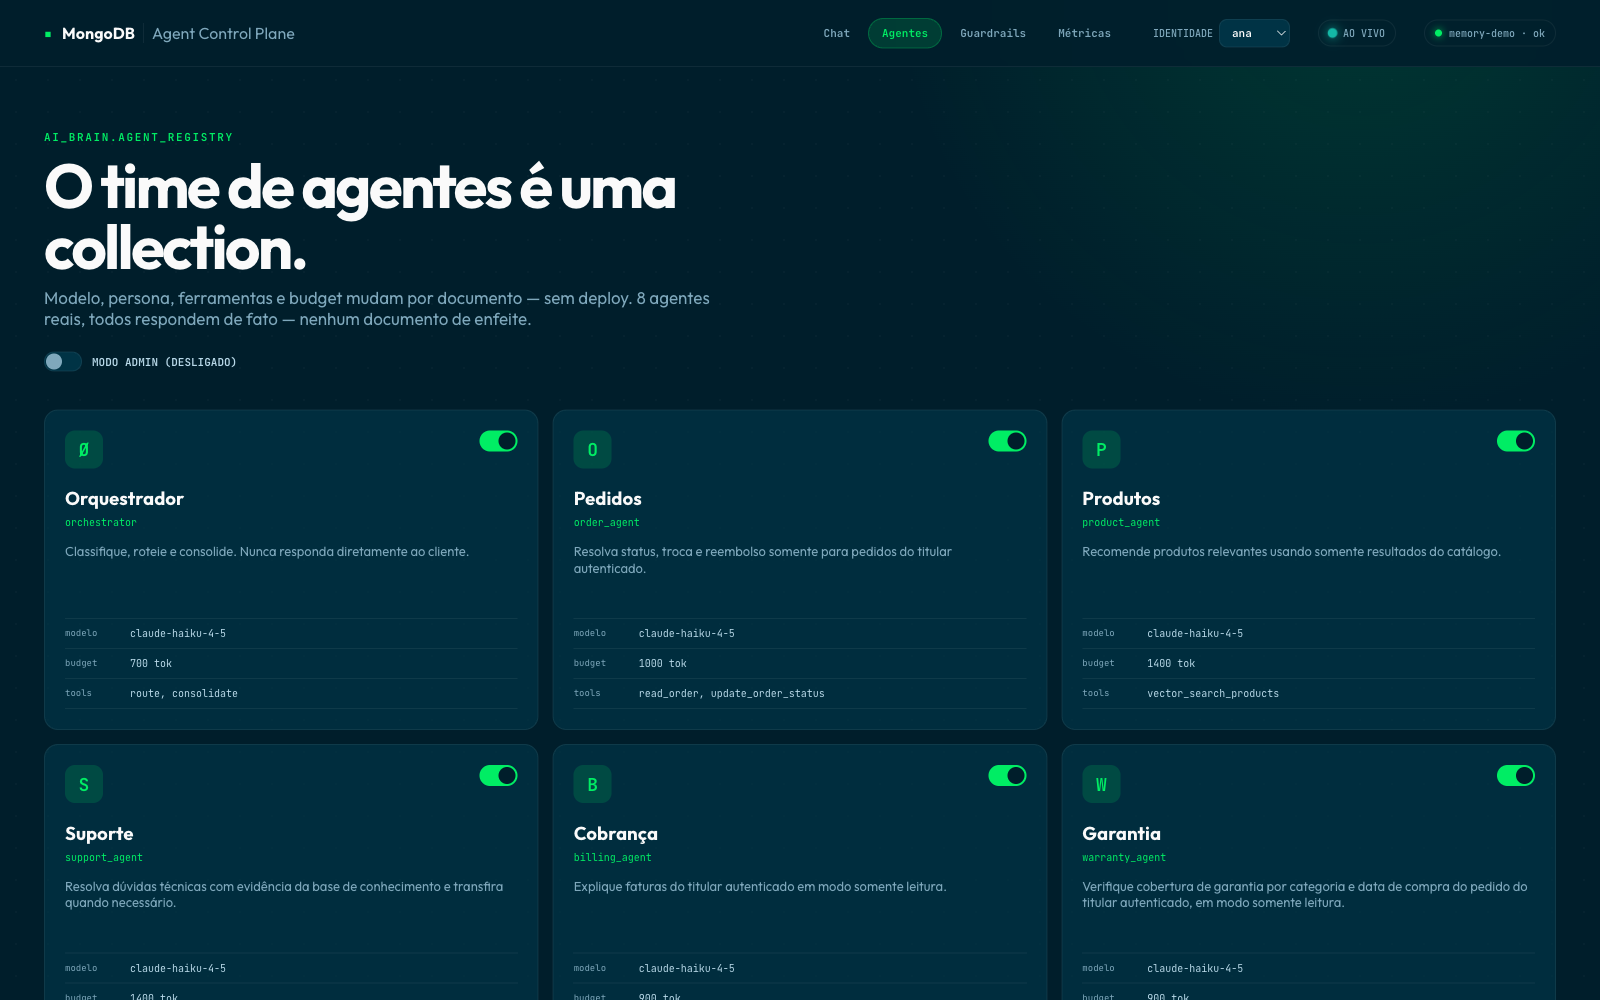
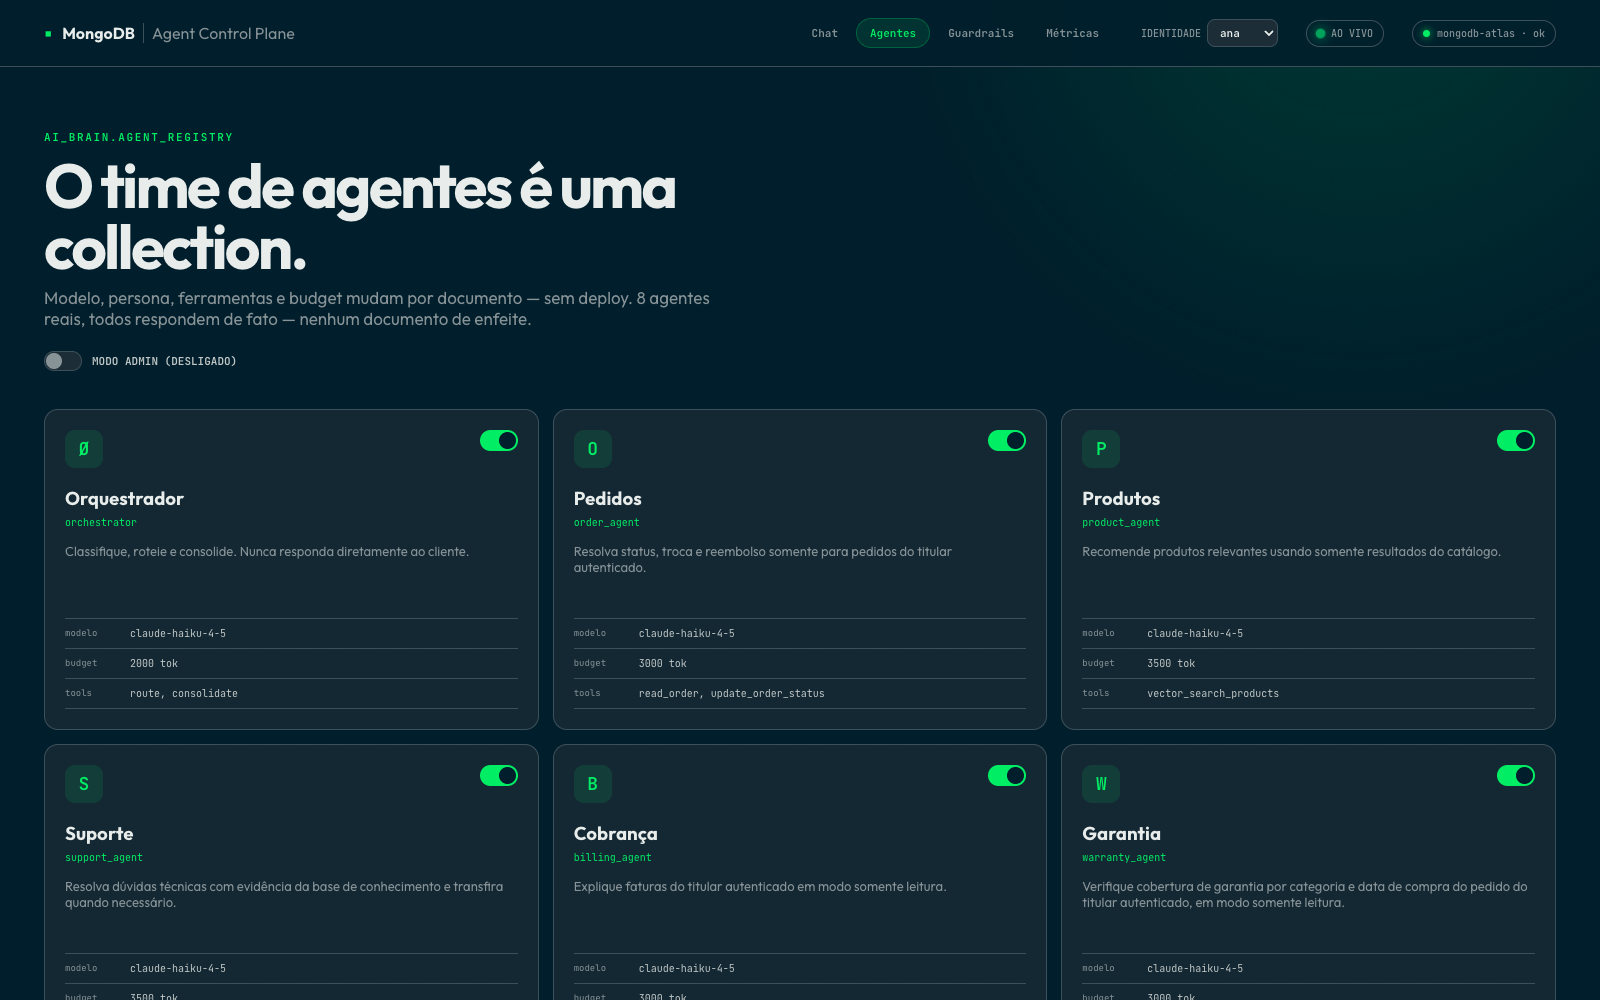
docs: simplify README and refresh screenshots
Rewrite the README as a short step-by-step walkthrough of the demo and
recapture the screenshots against the live cluster so each one shows the
step it illustrates.

diff --git a/README.md b/README.md
@@ -1,135 +1,73 @@
 # Multi-Agent on MongoDB
 
-This PoV answers a question that comes up in almost every multi-agent conversation: "fine, but where does all of this actually *live*?" Most reference architectures answer that with a shopping list — a database for durable state, Redis for session cache, a vector store bolted on the side, maybe a queue to coordinate handoffs. That's four systems to keep in sync before you've written a single line of business logic.
+8 customer-service agents that coordinate through MongoDB Atlas — no queue, no Redis, no separate vector store. Routing rules, agent configs, memory, cache, handoffs and guardrail decisions are all documents you can query while the conversation is running.
 
-This PoV takes the opposite bet: **MongoDB Atlas is not just where the data lives — it's where the agents coordinate.** Routing rules, agent configuration, conversation memory, handoff history, semantic cache, guardrail decisions, audit traces, vector and hybrid search all live in MongoDB, as documents, queryable the same way you'd query an order or an invoice.
+## The demo in 5 steps
 
-The screenshot below is the moment that usually lands the pitch: a support agent hands off to a product agent, which hands off to the order agent, which hands off to logistics, and the order agent gets called back at the end to confirm the trade actually stuck. Five agents, one customer message, every handoff a document you can query while it's happening.
+**1. Customer sends one message.**
 
-![Cadeia completa de agentes com retorno controlado](docs/screenshots/03-chain-timeline.png)
+![Chat home with the demo prompts](docs/screenshots/01-chat-home.png)
 
-## What this actually demonstrates
+**2. It walks through 4 agents in a single turn.** Support diagnoses the defect → product recommends a cheaper item → order processes the trade (the only write) → billing explains the invoice impact. Every hop is a document in `agent_handoffs`, streamed live via Change Streams.
 
-- **Agents are documents, not deployments.** Each agent's model, persona, tools, and token budget live in `ai_brain.agent_registry`. Disabling an agent, changing its model, or rewriting its persona is a MongoDB update — no redeploy, no restart.
-- **Coordination is auditable by design.** Every handoff between agents is written to `agent_handoffs` the moment it happens. A live Change Stream tails that collection and pushes it to the UI in real time.
-- **Multi-agent chains, not just single handoffs.** A single customer message can genuinely walk through 4 agents in one turn — diagnose (support) → recommend (product) → process the trade (order, the only agent with write access) → check the invoice impact (billing) — each one strictly scoped to its own part of the question.
-- **Parallel fan-out, when it makes sense.** A compound question like "where's my order, and how much do I still owe?" dispatches two independent agents at once instead of chaining them — genuine parallelism where the work doesn't depend on itself.
-- **Retrieval is hybrid and native.** Product recommendations use `$vectorSearch` with automatic embedding (`voyage-4`); support articles use BM25 + vector search fused with Reciprocal Rank Fusion — both running as MongoDB aggregation pipelines, not a bolted-on search service.
-- **Security is ownership-first.** `customer_key` comes only from the JWT, never from the request body. Every order/invoice/shipment query is rebuilt from scratch server-side. Only one agent can write, and only to one field, from an approved list of values.
-- **A guardrail that gets smarter as it runs.** New manipulation attempts caught by an LLM classifier get written back into the fast deterministic denylist — the next similar attempt is blocked instantly, no LLM call needed. Ambiguous cases get flagged for human review instead of blocking a legitimate customer by mistake.
-- **A cache cascade with explicit trust boundaries.** Short-term memory is scoped by session + customer + agent; cross-session cache remains customer-scoped; only public catalog/KB answers with no personalized memory, handoff, or write can enter the global cache.
-- **An eval harness that lives in the same database.** A golden dataset of test conversations gets replayed against the live server and the pass/fail history is written to `eval_runs` — quality tracking as a MongoDB collection, not a separate dashboard.
+![Agent chain timeline showing four handoffs in one turn](docs/screenshots/03-chain-timeline.png)
 
-![Tela inicial: canal do cliente e roteiro rápido de cenários](docs/screenshots/01-chat-home.png)
+**3. Agents are data, not deployments.** Model, persona, tools and token budget live in `agent_registry` — toggle an agent or swap its model mid-demo, no redeploy.
 
-## The 8 agents
+![Agent registry with per-agent model, scope and on/off toggle](docs/screenshots/04-agents-registry.png)
 
-| Agent | Job | Can write? |
+**4. Try to break it.** A jailbreak or fake-authority prompt hits the denylist first; anything new goes to a cheap LLM classifier that writes the pattern back to the denylist, so the next attempt is free.
+
+![Guardrails panel: blocks, self-fed denylist, flagged ambiguous cases](docs/screenshots/06-guardrails.png)
+
+**5. Prove it happened.** Metrics come from the same collections everything else writes to.
+
+![Metrics: agent coverage, handoffs, writes, native searches](docs/screenshots/05-metrics.png)
+
+## The agents
+
+| Agent | Job | Writes? |
 |---|---|---|
-| `orchestrator` | Classifies intent, routes, never answers the customer directly | No |
-| `order_agent` | Order status, trade/refund requests | Yes — order status only, approved values only |
-| `product_agent` | Catalog recommendations via vector search, weighted by relevance + rating + stock | No |
-| `support_agent` | Technical troubleshooting via hybrid RAG; opens a real support ticket when it can't resolve | Yes — support tickets |
+| `orchestrator` | Classifies intent and routes | No |
+| `order_agent` | Order status, trades/refunds | Yes — status only, approved values |
+| `product_agent` | Catalog recommendations via `$vectorSearch` | No |
+| `support_agent` | Troubleshooting via hybrid RAG, opens tickets | Yes — support tickets |
 | `billing_agent` | Invoice lookups | No |
-| `warranty_agent` | Coverage checks by product category + purchase date | No |
-| `loyalty_agent` | Points balance, tier benefits, real reward redemption | Yes — point deduction, restricted to a fixed reward catalog |
-| `logistics_agent` | Carrier, tracking code, delivery ETA; can flag a reschedule request | Yes — reschedule flag only |
-
-Every agent's config — model, persona, tools, budget — is a document in `ai_brain.agent_registry`. You can toggle one off or swap its model mid-demo without touching a line of code.
-
-![Registro de agentes com modelo, escopo e ativação individual](docs/screenshots/04-agents-registry.png)
-
-## Anatomy of one turn
-
-Why MongoDB instead of a queue or a workflow engine? Because every step below is a document write you can query, audit, and replay — the coordination *is* the data:
-
-```mermaid
-flowchart TD
-    A[Customer message] --> B{Input guardrail<br/>denylist + near-miss + LLM classifier}
-    B -- blocked --> Z[Refusal + guardrail_events]
-    B -- pass --> C{Semantic cache<br/>session → customer → global}
-    C -- hit --> Y[Replay stored answer + timeline]
-    C -- miss --> D{Routing<br/>deterministic rules first,<br/>orchestrator LLM only if no rule matched}
-    D -- compound & independent --> E[Fan-out: order + billing in parallel]
-    D -- single or dependent --> F[Agent chain, up to 4 hops<br/>support → product → order → billing/logistics]
-    F --> G[Every handoff → agent_handoffs<br/>Change Stream → live UI]
-    E --> H[Store turn: cache + memory + traces + metrics]
-    G --> H
-```
+| `warranty_agent` | Coverage by category + purchase date | No |
+| `loyalty_agent` | Points, tiers, reward redemption | Yes — point deduction |
+| `logistics_agent` | Carrier, tracking, ETA | Yes — reschedule flag |
 
 ## Stack
 
-- **Backend:** Python 3.12, FastAPI, PyMongo Async, Anthropic SDK (Claude Haiku for routing/simple agents, Sonnet for reasoning-heavy ones)
-- **Frontend:** React + Vite
-- **Data platform:** MongoDB Atlas — Search + Vector Search with Automated Embedding (`voyage-4`), Change Streams, JSON Schema validation, TTL indexes
+Python 3.12 · FastAPI · React + Vite · Anthropic (Haiku for routing, Sonnet for reasoning) · MongoDB Atlas (Vector Search with auto-embedding `voyage-4`, hybrid RRF, Change Streams, TTL, schema validation).
 
-## Running it locally
+## Run it
 
 ```bash
 cp .env.example .env
-python3.12 -m venv .venv
-source .venv/bin/activate
+python3.12 -m venv .venv && source .venv/bin/activate
 pip install -r backend/requirements.txt
 python backend/seed.py
-cd backend && python run.py
+cd backend && python run.py     # port 8031
 ```
-
-In another terminal:
 
 ```bash
-cd frontend
-npm install
-npm run dev
+cd frontend && npm install && npm run dev   # port 5191
 ```
 
-Open `http://127.0.0.1:5191`. The backend runs on `http://127.0.0.1:8031` by default. Both use strict ports — if one's taken, the process exits instead of silently picking another port.
+No Atlas cluster? `DEMO_MODE=1 AUTH_REQUIRED=1 python run.py` runs the same contracts in memory (no Vector Search / Change Streams). That's what CI uses.
 
-### Running without a live Atlas cluster
-
-```bash
-cd backend
-DEMO_MODE=1 AUTH_REQUIRED=1 python run.py
-```
-
-Same contracts, same seed data, kept in memory — no Vector Search or Change Streams, but everything else behaves identically. This is what the automated tests and CI run against.
-
-### Before a live demo
-
-Run the warm-up script once, ahead of time, so the customer's first click doesn't eat a cold multi-hop LLM chain:
-
-```bash
-cd backend
-python warmup.py
-```
-
-This calls the real demo prompts against the real model once — genuinely, at real cost — so the semantic cache is populated honestly before anyone's watching. When the customer clicks the same prompt live, `cache_hit: true` is real, not staged.
+Before a live demo, `python backend/warmup.py` calls the real prompts once so the cache hits are genuine.
 
 ## Tests
 
 ```bash
 cd backend
-pytest -q                              # unit tests
-python tests/smoke.py <url>            # black-box smoke test against a running server
-python eval.py <url>                   # golden-dataset eval harness, writes results to eval_runs
+pytest -q                       # unit
+python tests/smoke.py <url>     # black-box
+python eval.py <url>            # golden dataset, results to eval_runs
 ```
-
-## The core scenario, in one turn
-
-> "My phone order PED-1001 arrived defective, I want something similar but cheaper, and I want to trade it — does that affect my invoice?"
-
-Watch it walk: **support** diagnoses the defect → hands off to **product**, which recommends a cheaper alternative from the real catalog → hands off to **order**, which processes the trade (the only write in the whole system) → hands off to **billing**, which explains the invoice impact. Four agents, one customer message, every handoff a document in `agent_handoffs` you can query the instant it happens.
-
-## What the customer sees when something goes wrong on purpose
-
-Every demo run includes at least one attempt to break the system — a fake authority claim, a jailbreak prompt, someone asking the assistant to hide a refund from the audit trail. The static denylist and the near-miss checker catch most of it for free; anything novel goes through a cheap LLM classifier that writes the new pattern back into the denylist, so the next attempt never needs a model call at all.
-
-![Painel de guardrails: bloqueios, denylist auto-alimentada e candidatos ambíguos](docs/screenshots/06-guardrails.png)
-
-And because none of this is worth much if you can't prove it happened, the metrics page pulls straight from the same collections everything else writes to — no separate analytics pipeline, no export job.
-
-![Métricas operacionais: cobertura de agentes, handoffs, escritas e buscas nativas](docs/screenshots/05-metrics.png)
 
 ## Docs
 
-- [Architecture](docs/architecture.md)
-- [ADR-001](docs/adr/ADR-001-arquitetura-multi-agente.md)
+[Architecture](docs/architecture.md) · [ADR-001](docs/adr/ADR-001-arquitetura-multi-agente.md)
